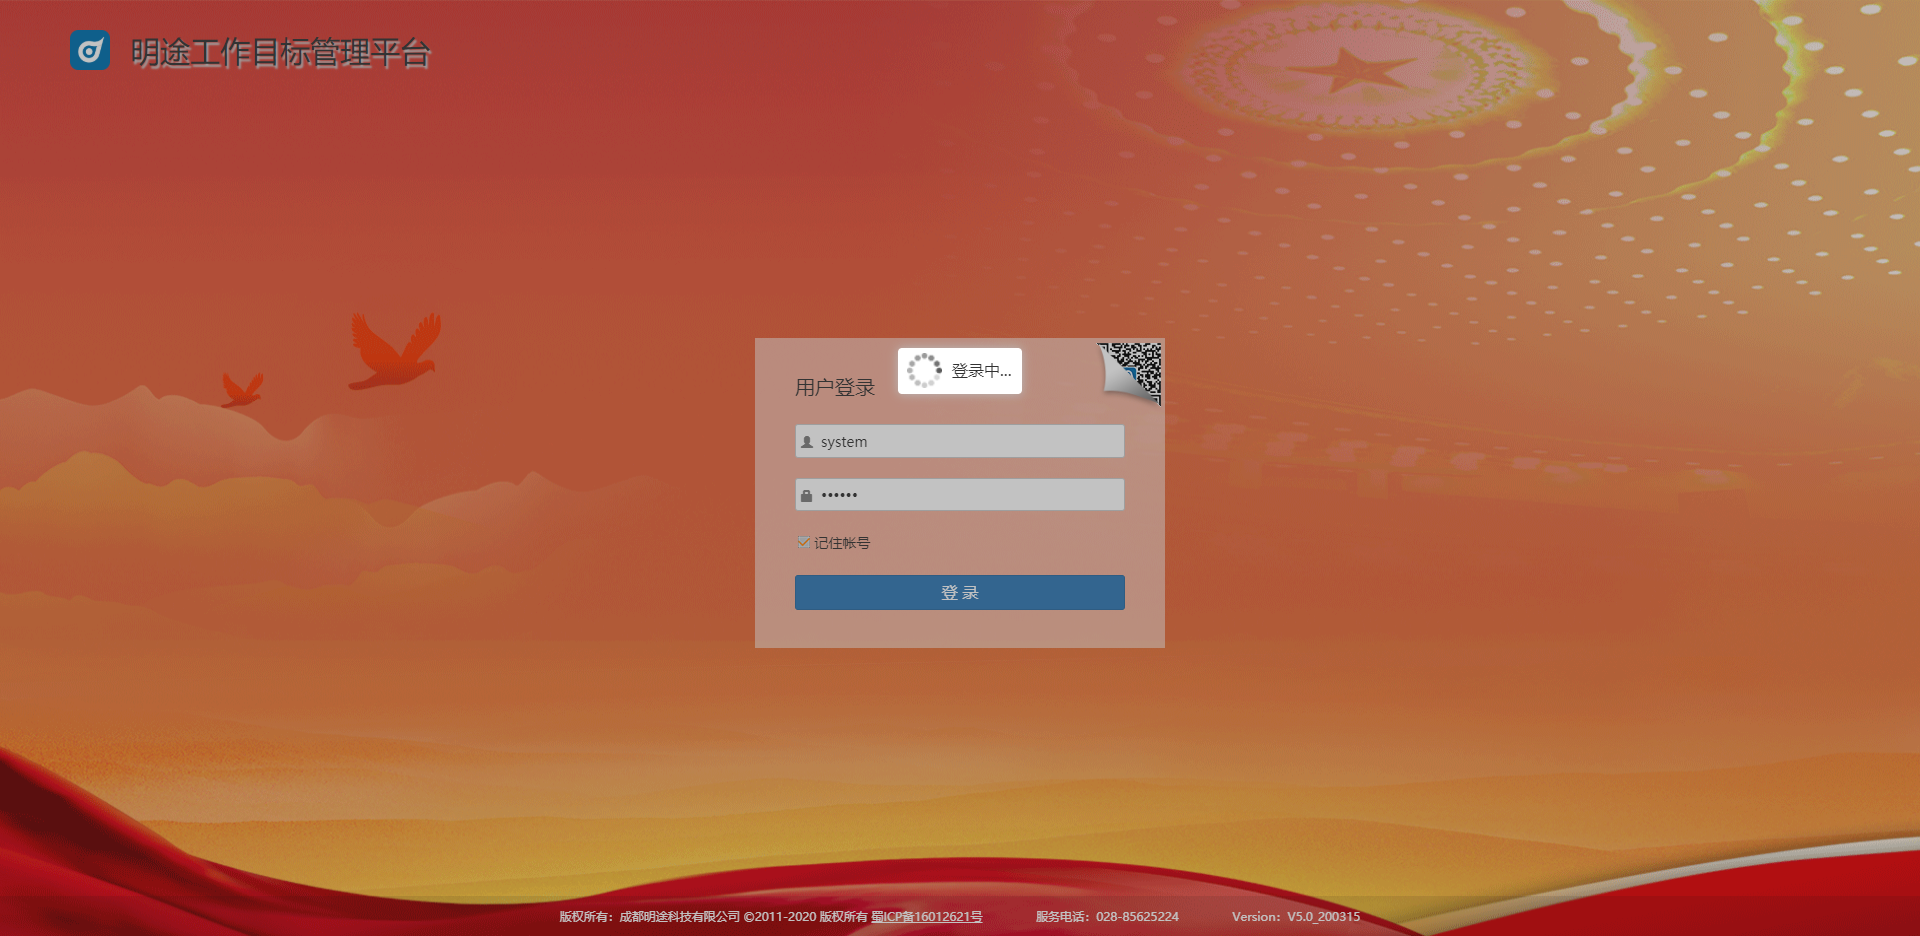
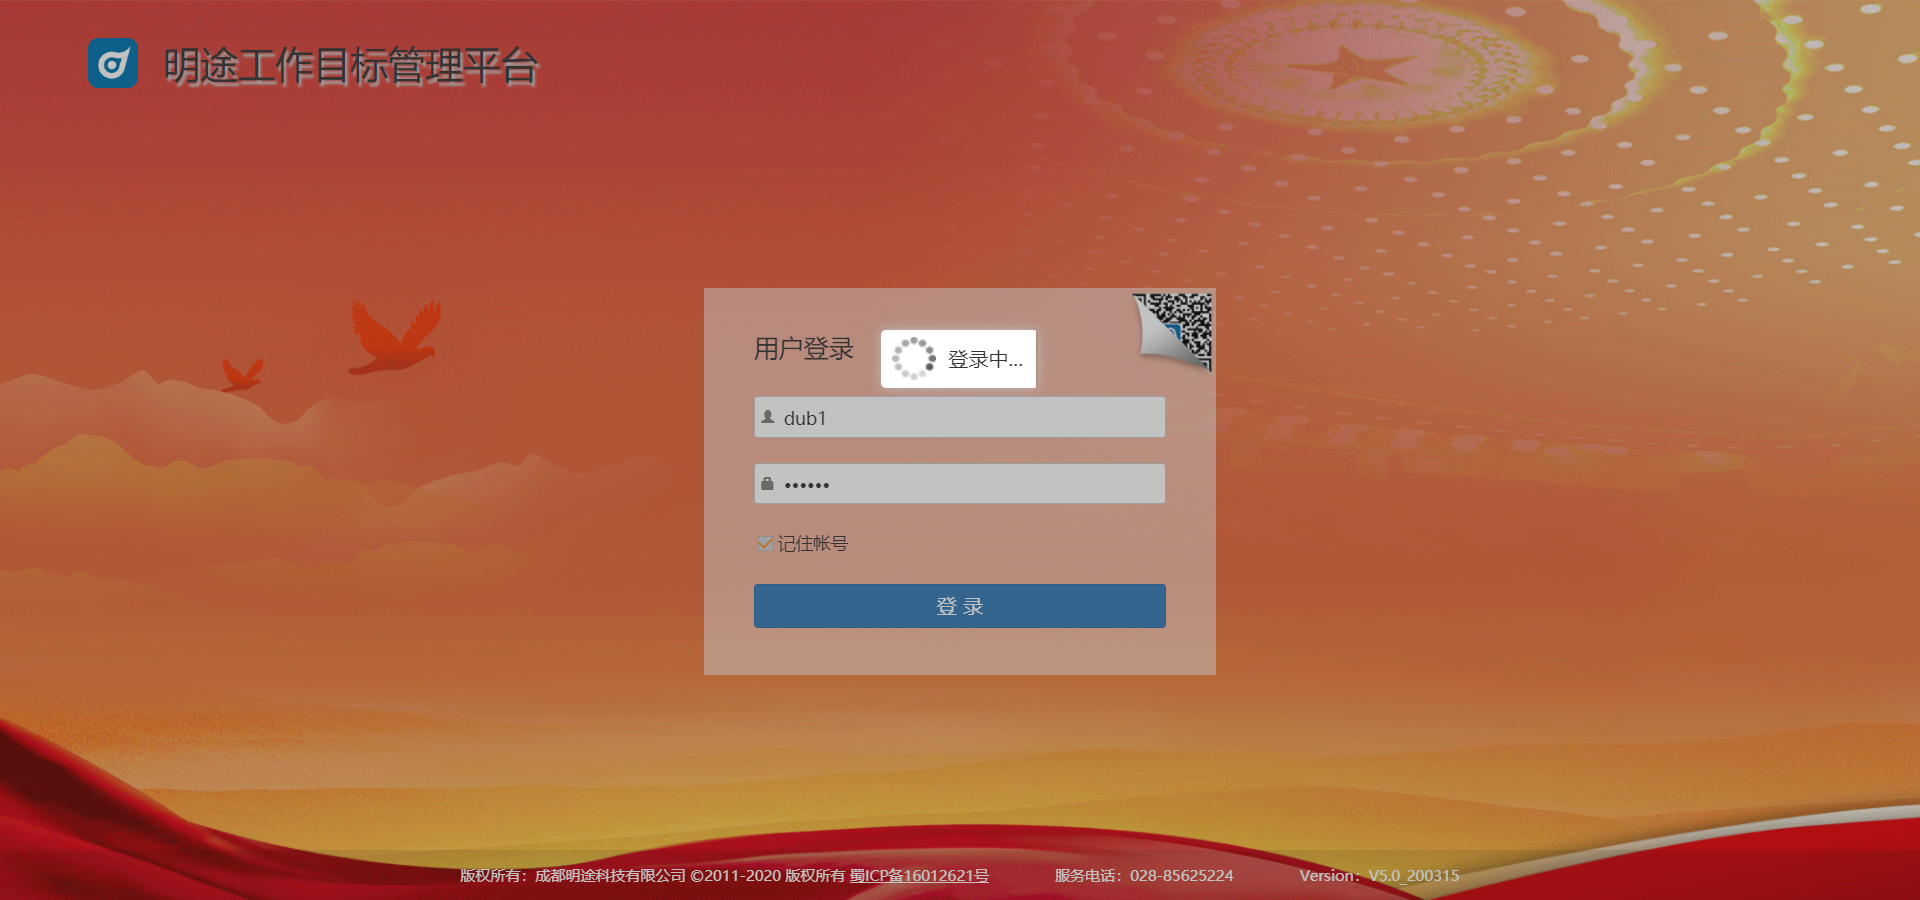
修改部分配置文件和类的名字

Changed region(s): [[0.3438, 0.3111, 0.6562, 0.7778], [0.2188, 0.9644, 0.75, 0.9956], [0.0312, 0.0311, 0.2812, 0.0933]]

diff --git a/login_function.py b/login_function.py
@@ -1,0 +1,45 @@
+from selenium import webdriver
+from time import sleep
+from find_element import FindElement
+
+class LoginFunction():
+    """登录功能的类"""
+
+    def __init__(self,url):
+        self.driver = self.get_driver(url)
+
+    def get_driver(self,url):
+        """获取driver并且打开url"""
+        driver = webdriver.Chrome()
+        driver.get(url)
+        driver.maximize_window()
+        return driver
+
+    def get_user_element(self,key):
+        """定位用户信息，获取element"""
+        find_elemnt = FindElement(self.driver)
+        user_elemnt = find_elemnt.get_element(key)
+        return user_elemnt
+
+    def send_user_info(self,key,data):
+        """输入用户信息"""
+        self.get_user_element(key).send_keys(data)
+
+    def main(self):
+        """登录实例"""
+        self.send_user_info('user_name','dub1')
+        self.send_user_info('password','123456')
+        self.get_user_element('check_box').click()
+        sleep(3)
+        self.get_user_element('Login_box').click()
+        code_error = self.get_user_element('code_text_error')
+        if code_error == None:
+            print("登录成功")
+        else:
+            self.driver.save_screenshot("D:/imooc_selenium/images/test.png")
+        sleep(5)
+        self.driver.close()
+
+if __name__ == '__main__':
+    login_function = LoginFunction("http://118.123.249.212:9011")
+    login_function.main()

diff --git a/util/read_ini.py b/util/read_ini.py
@@ -5,7 +5,7 @@ class ReadIni():
         if file_name == None:
             file_name = "D:/imooc_selenium/config/localElement.ini"
         if node == None:
-            self.node = 'RegisterElemet'
+            self.node = 'LoginElemet'
         else:
             self.node = node
         self.cf = self.load_ini(file_name)
@@ -21,3 +21,4 @@ class ReadIni():
 if __name__ == '__main__':
     read_init = ReadIni()
     print(read_init.get_value('check_box'))
+
